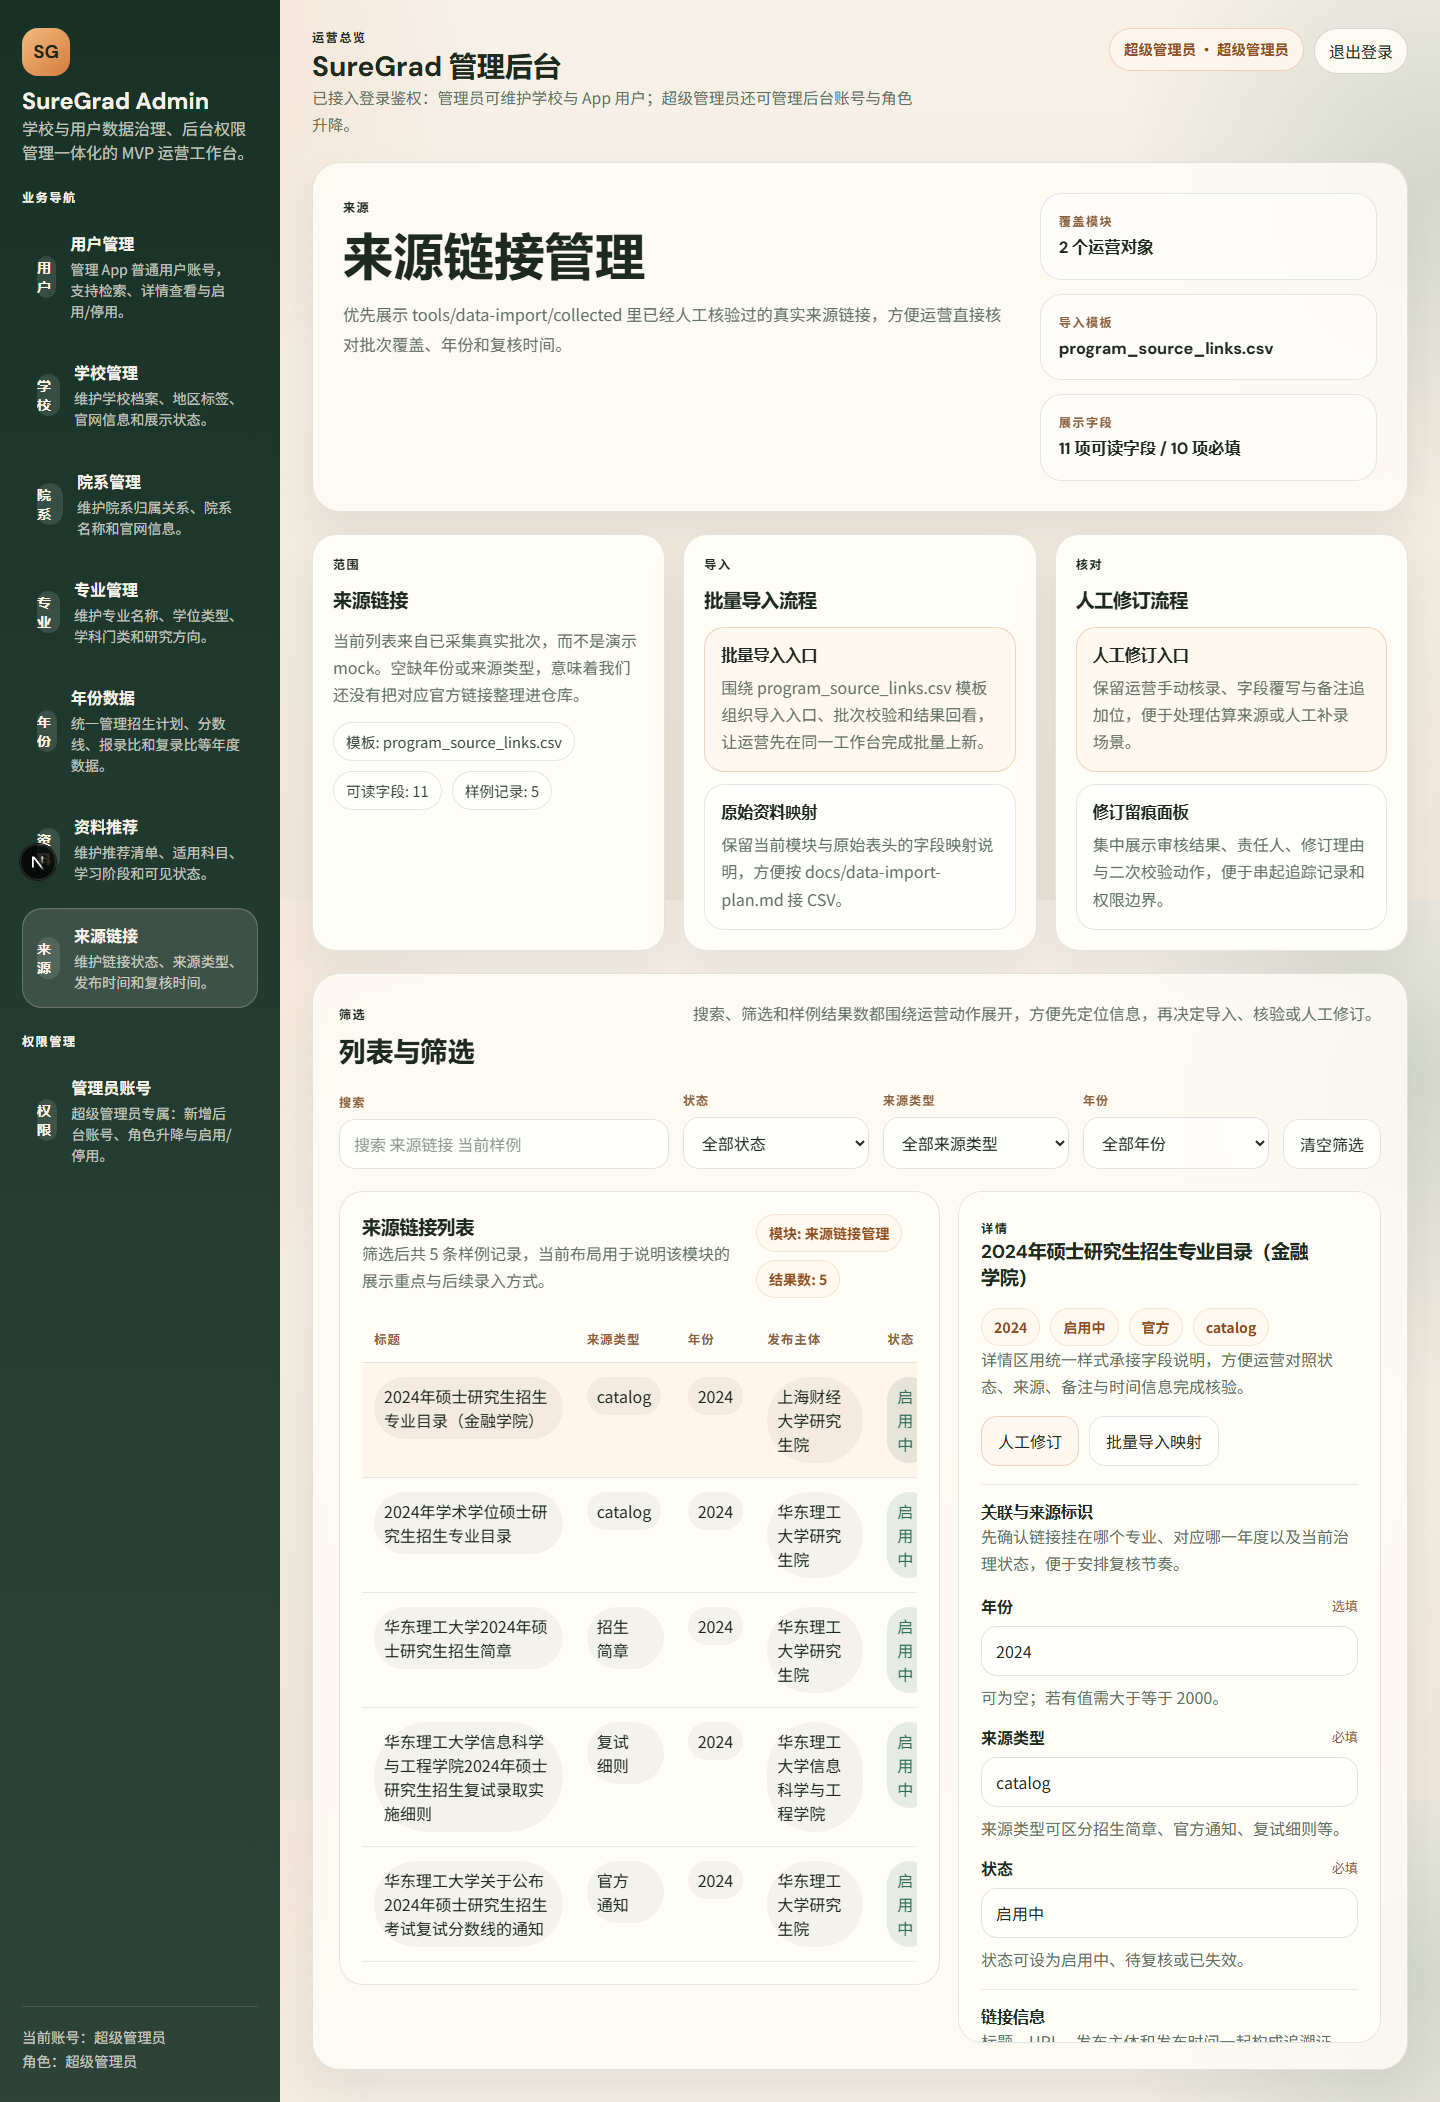
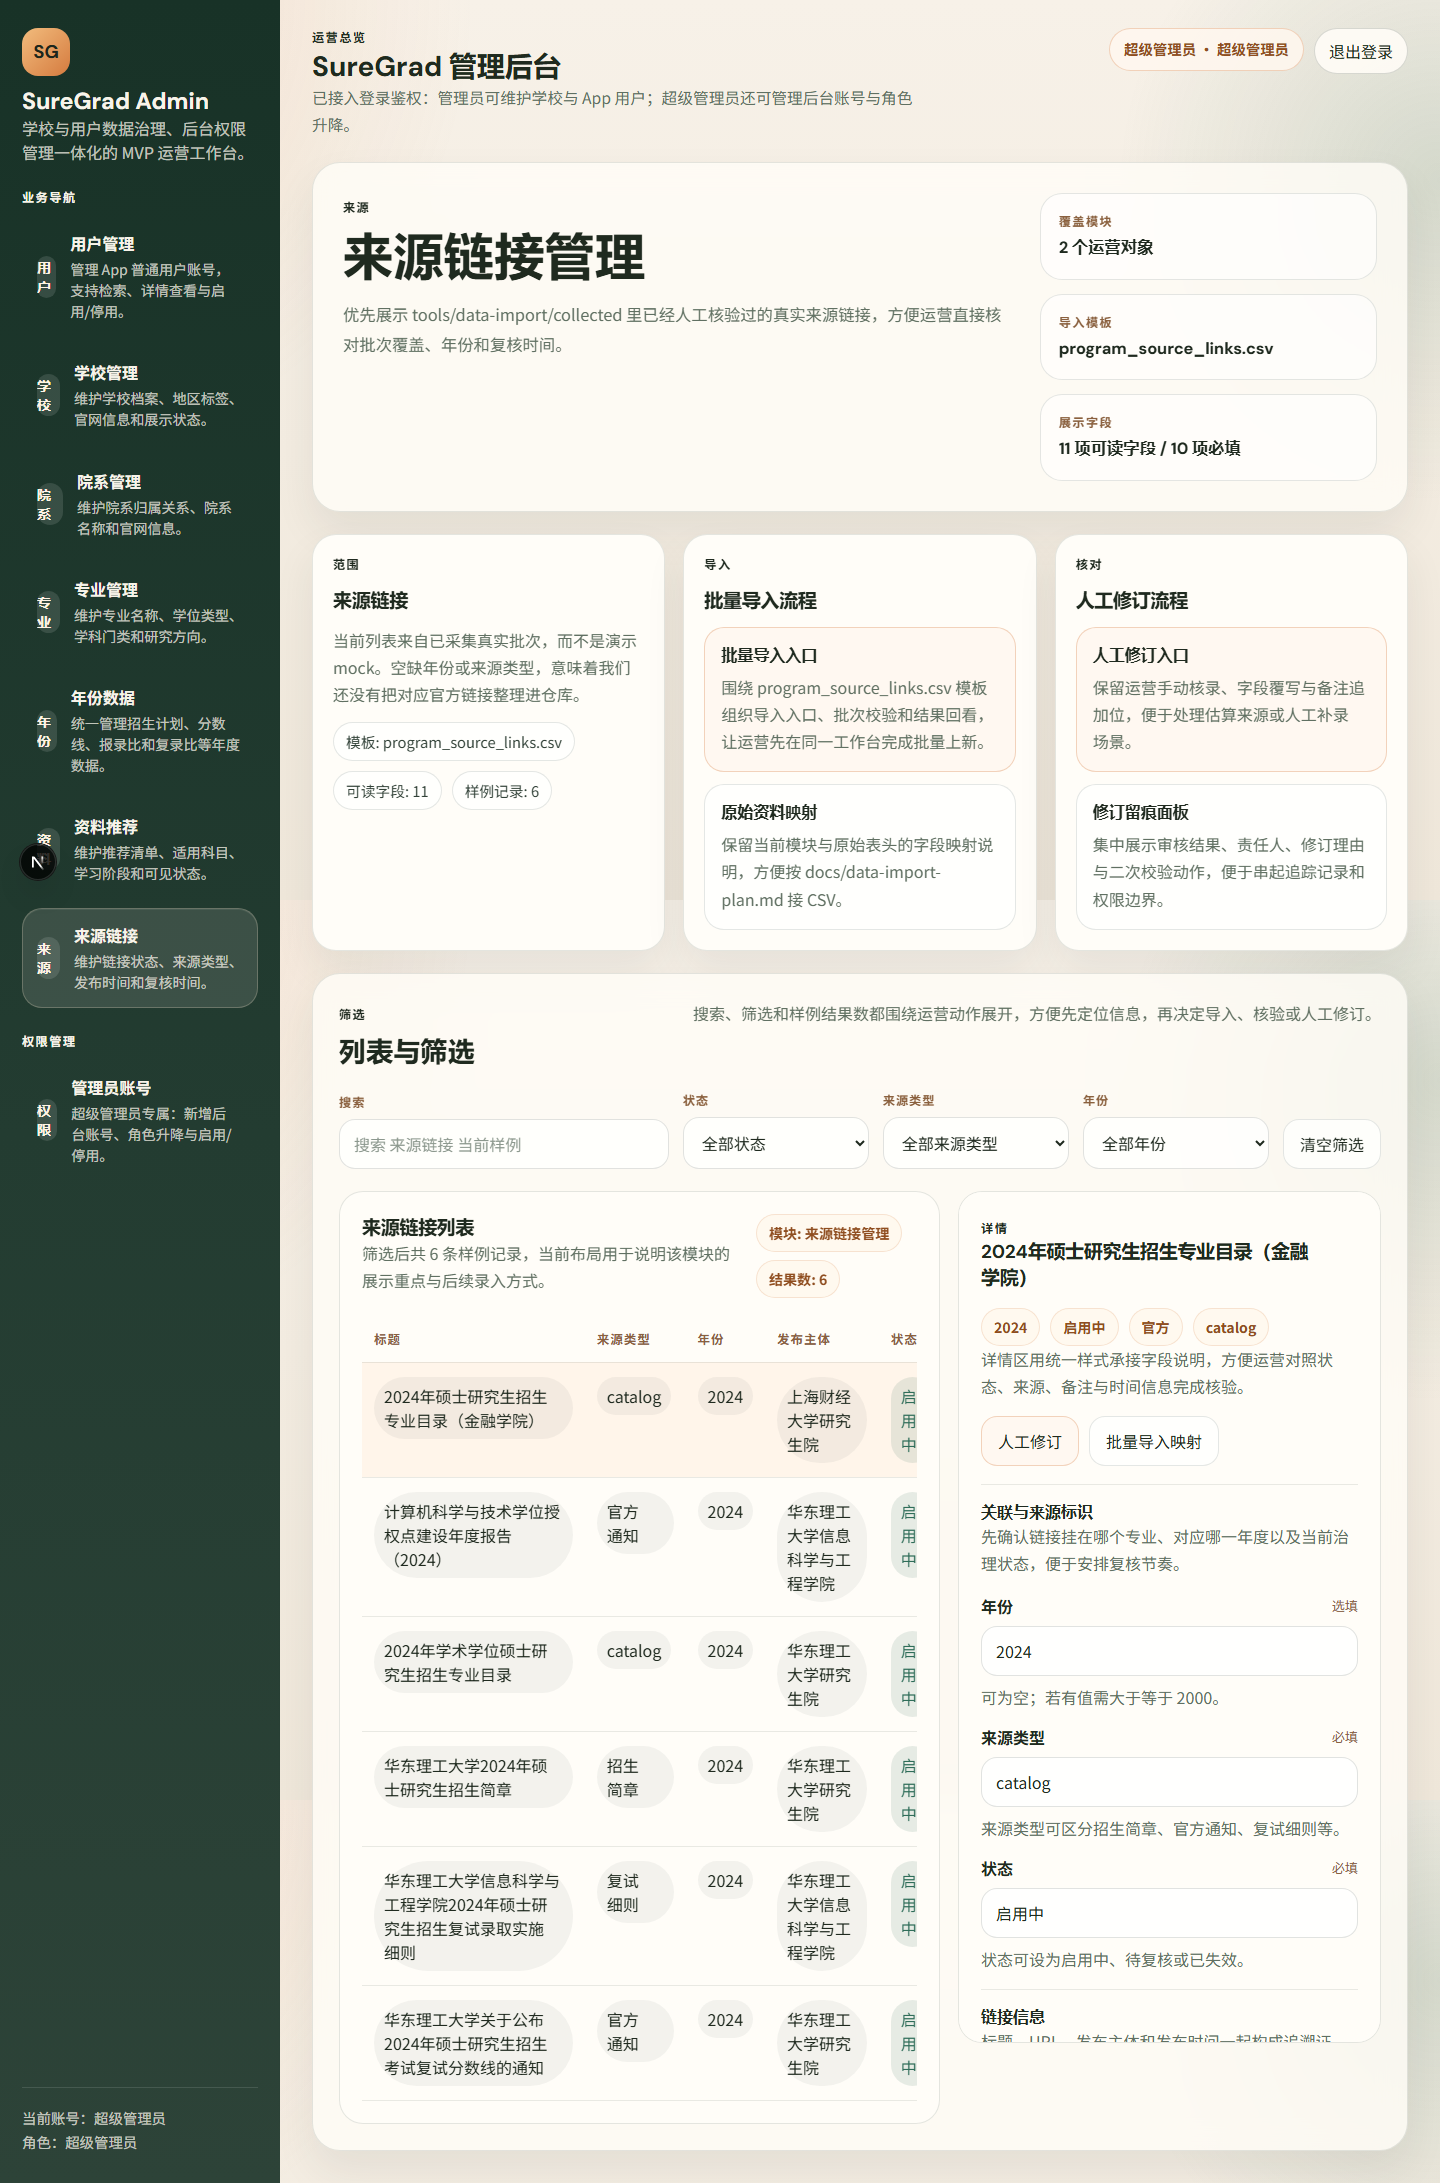
feat(data): ecust 批次补招生与复试 CSV 并扩展导入器
依据学院学位授权点年报写入招生人数，复试比按实施细则与估算口径入库；专业详情页展示真实复试比。

diff --git a/tools/data-import/import_to_db.py b/tools/data-import/import_to_db.py
@@ -22,7 +22,10 @@ IMPORT_ORDER = (
     "schools.csv",
     "departments.csv",
     "programs.csv",
+    "program_admissions.csv",
     "program_score_lines.csv",
+    "program_application_stats.csv",
+    "program_interview_stats.csv",
     "program_source_links.csv",
 )
 
@@ -444,6 +447,59 @@ def upsert_program(conn: Any, lookup: LookupTables, row: dict[str, str]) -> str:
     return program_id
 
 
+def parse_optional_int(value: str | None) -> int | None:
+    text = empty_to_none(value)
+    if text is None:
+        return None
+    return int(text)
+
+
+def parse_decimal(value: str | None) -> float:
+    text = (value or "").strip()
+    if not text:
+        raise ValueError("decimal value is required")
+    return float(text)
+
+
+def upsert_admission(conn: Any, lookup: LookupTables, row: dict[str, str]) -> None:
+    program_id = resolve_program_id(conn, lookup, row)
+    values = {
+        "program_id": program_id,
+        "exam_year": int(row["exam_year"]),
+        "planned_enrollment": int(row["planned_enrollment"]),
+        "recommended_exemption_count": int(row.get("recommended_exemption_count") or 0),
+        "unified_exam_quota": int(row.get("unified_exam_quota") or 0),
+        "actual_enrollment": parse_optional_int(row.get("actual_enrollment")),
+        "is_cross_major_allowed": parse_bool(row.get("is_cross_major_allowed")),
+        "memo": empty_to_none(row.get("memo")),
+        "source_confidence": row["source_confidence"].strip(),
+    }
+    conn.execute(
+        """
+        INSERT INTO program_admissions (
+            program_id, exam_year, planned_enrollment, recommended_exemption_count,
+            unified_exam_quota, actual_enrollment, is_cross_major_allowed, memo,
+            source_confidence
+        ) VALUES (
+            %(program_id)s, %(exam_year)s, %(planned_enrollment)s,
+            %(recommended_exemption_count)s, %(unified_exam_quota)s, %(actual_enrollment)s,
+            %(is_cross_major_allowed)s, %(memo)s, %(source_confidence)s
+        )
+        ON CONFLICT (program_id, exam_year)
+        DO UPDATE SET
+            planned_enrollment = EXCLUDED.planned_enrollment,
+            recommended_exemption_count = EXCLUDED.recommended_exemption_count,
+            unified_exam_quota = EXCLUDED.unified_exam_quota,
+            actual_enrollment = EXCLUDED.actual_enrollment,
+            is_cross_major_allowed = EXCLUDED.is_cross_major_allowed,
+            memo = EXCLUDED.memo,
+            source_confidence = EXCLUDED.source_confidence,
+            updated_at = NOW()
+        """,
+        values,
+    )
+
+
 def upsert_score_line(conn: Any, lookup: LookupTables, row: dict[str, str]) -> None:
     program_id = resolve_program_id(conn, lookup, row)
     values = {
@@ -475,6 +531,79 @@ def upsert_score_line(conn: Any, lookup: LookupTables, row: dict[str, str]) -> N
             english_score = EXCLUDED.english_score,
             subject_one_score = EXCLUDED.subject_one_score,
             subject_two_score = EXCLUDED.subject_two_score,
+            notes = EXCLUDED.notes,
+            source_confidence = EXCLUDED.source_confidence,
+            updated_at = NOW()
+        """,
+        values,
+    )
+
+
+def upsert_application_stat(conn: Any, lookup: LookupTables, row: dict[str, str]) -> None:
+    program_id = resolve_program_id(conn, lookup, row)
+    values = {
+        "program_id": program_id,
+        "exam_year": int(row["exam_year"]),
+        "applicant_count": int(row["applicant_count"]),
+        "actual_exam_count": parse_optional_int(row.get("actual_exam_count")),
+        "admitted_count": int(row["admitted_count"]),
+        "application_ratio": parse_decimal(row.get("application_ratio")),
+        "notes": empty_to_none(row.get("notes")),
+        "source_confidence": row["source_confidence"].strip(),
+    }
+    conn.execute(
+        """
+        INSERT INTO program_application_stats (
+            program_id, exam_year, applicant_count, actual_exam_count, admitted_count,
+            application_ratio, notes, source_confidence
+        ) VALUES (
+            %(program_id)s, %(exam_year)s, %(applicant_count)s, %(actual_exam_count)s,
+            %(admitted_count)s, %(application_ratio)s, %(notes)s, %(source_confidence)s
+        )
+        ON CONFLICT (program_id, exam_year)
+        DO UPDATE SET
+            applicant_count = EXCLUDED.applicant_count,
+            actual_exam_count = EXCLUDED.actual_exam_count,
+            admitted_count = EXCLUDED.admitted_count,
+            application_ratio = EXCLUDED.application_ratio,
+            notes = EXCLUDED.notes,
+            source_confidence = EXCLUDED.source_confidence,
+            updated_at = NOW()
+        """,
+        values,
+    )
+
+
+def upsert_interview_stat(conn: Any, lookup: LookupTables, row: dict[str, str]) -> None:
+    program_id = resolve_program_id(conn, lookup, row)
+    values = {
+        "program_id": program_id,
+        "exam_year": int(row["exam_year"]),
+        "retest_candidate_count": int(row["retest_candidate_count"]),
+        "final_admitted_count": int(row["final_admitted_count"]),
+        "interview_ratio": parse_decimal(row.get("interview_ratio")),
+        "retest_weight": parse_decimal(row.get("retest_weight")),
+        "initial_exam_weight": parse_decimal(row.get("initial_exam_weight")),
+        "notes": empty_to_none(row.get("notes")),
+        "source_confidence": row["source_confidence"].strip(),
+    }
+    conn.execute(
+        """
+        INSERT INTO program_interview_stats (
+            program_id, exam_year, retest_candidate_count, final_admitted_count,
+            interview_ratio, retest_weight, initial_exam_weight, notes, source_confidence
+        ) VALUES (
+            %(program_id)s, %(exam_year)s, %(retest_candidate_count)s, %(final_admitted_count)s,
+            %(interview_ratio)s, %(retest_weight)s, %(initial_exam_weight)s, %(notes)s,
+            %(source_confidence)s
+        )
+        ON CONFLICT (program_id, exam_year)
+        DO UPDATE SET
+            retest_candidate_count = EXCLUDED.retest_candidate_count,
+            final_admitted_count = EXCLUDED.final_admitted_count,
+            interview_ratio = EXCLUDED.interview_ratio,
+            retest_weight = EXCLUDED.retest_weight,
+            initial_exam_weight = EXCLUDED.initial_exam_weight,
             notes = EXCLUDED.notes,
             source_confidence = EXCLUDED.source_confidence,
             updated_at = NOW()
@@ -569,8 +698,17 @@ IMPORT_HANDLERS = {
     "programs.csv": lambda conn, lookup, rows: [
         upsert_program(conn, lookup, row) for row in rows
     ],
+    "program_admissions.csv": lambda conn, lookup, rows: [
+        upsert_admission(conn, lookup, row) for row in rows
+    ],
     "program_score_lines.csv": lambda conn, lookup, rows: [
         upsert_score_line(conn, lookup, row) for row in rows
+    ],
+    "program_application_stats.csv": lambda conn, lookup, rows: [
+        upsert_application_stat(conn, lookup, row) for row in rows
+    ],
+    "program_interview_stats.csv": lambda conn, lookup, rows: [
+        upsert_interview_stat(conn, lookup, row) for row in rows
     ],
     "program_source_links.csv": lambda conn, lookup, rows: [
         upsert_source_link(conn, lookup, row) for row in rows

diff --git a/docs/start-here.md b/docs/start-here.md
@@ -109,7 +109,9 @@
 2. `departments.csv`
 3. `programs.csv`
 4. `program_score_lines.csv`
-5. `program_source_links.csv`
+5. `program_admissions.csv`
+6. `program_interview_stats.csv`
+7. `program_source_links.csv`
 
 覆盖对象：
 
@@ -122,7 +124,7 @@
 1. 已附带批次级 `README.md`，说明官方来源和人工判断。
 2. 已优先保证真源和来源追溯，而不是先把所有字段补满。
 3. 现在可以直接通过 `tools/data-import/run_import.ps1` 产出批次级 `import-report.json` 和 `import-report.md`。
-4. 当前真实批次还没有覆盖 `program_admissions`、`program_application_stats`、`program_interview_stats`、`program_exam_subjects`、`program_reference_books`、`subjects`、`books` 等模板。
+4. 当前真实批次已覆盖 `program_admissions`、`program_interview_stats`；仍缺 `program_application_stats`、`program_exam_subjects`、`program_reference_books`、`subjects`、`books` 等模板。
 
 **入库（2026-05-22）**：ecust 五表可通过 `pnpm db:seed:ecust` 写入 PostgreSQL（`db:migrate` + `db:import:ecust`）。全新库先执行 `docs/schema.sql`；旧库缺列时 migrate 会补齐。本机验证：`GET /api/v1/schools` 应返回华东理工大学及 2024 分数线摘要。
 
@@ -201,7 +203,7 @@
 
 ### 11.3 移动端 / 视觉验收优先项
 
-1. 专业详情页已落地；**资料详情页**已落地（2026-05-23）。下一步优先补齐 ecust 报录比/复试 CSV，减少详情与对比中的「待补充」。
+1. 专业详情页已落地；**资料详情页**已落地（2026-05-23）。ecust 批次已补招生/复试 CSV（2026-05-23）。下一步优先补齐报录比 CSV 或初试科目模板，减少详情与对比中的「待补充」。
 2. 任何涉及 Flutter 页面结构或交互的改动，除 `flutter analyze` / `flutter test` 外，应跑 `pnpm verify:visual` 并写 `docs/visual-qa/` 记录。
 
 ### 11.4 数据采集优先项

diff --git a/tools/data-import/collected/ecust-cs-2024/README.md b/tools/data-import/collected/ecust-cs-2024/README.md
@@ -8,7 +8,9 @@
 2. 院系 `departments.csv`
 3. 专业 `programs.csv`
 4. 分数线 `program_score_lines.csv`
-5. 来源链接 `program_source_links.csv`
+5. 招生人数 `program_admissions.csv`
+6. 复试比 `program_interview_stats.csv`
+7. 来源链接 `program_source_links.csv`
 
 ## 官方来源
 
@@ -18,6 +20,7 @@
 4. `华东理工大学2024年硕士研究生招生简章`
 5. `华东理工大学信息科学与工程学院2024年硕士研究生招生复试录取实施细则`
 6. `华东理工大学关于公布2024年硕士研究生招生考试复试分数线的通知`
+7.  `计算机科学与技术学位授权点建设年度报告（2024）`
 
 ## 人工说明
 
@@ -25,4 +28,6 @@
 2. `discipline_category=工学` 依据专业代码 `081200` 对应学科门类整理。
 3. `exam_math_required=true` 依据该专业目录中的统考科目含数学科目整理。
 4. `tuition_per_year=8000.00` 依据 2024 招生简章中的全日制学术学位硕士学费标准整理。
-5. 本批次未填写招生计划、报录比、复录比、考试科目和参考书，是因为当前采集轮次优先确保“不猜数字、先保真源”。
+5. `program_admissions.csv` 中计划/实际招生与推免、统考人数来自学院学位授权点建设年度报告（2024）表 5-1/5-2，口径为 `official`。
+6. `program_interview_stats.csv` 中最终录取 18 人取自年报普通招考人数；复试人数与复试比为 `estimated`，复试权重 50/50 依据学院复试录取实施细则。
+7. 本批次仍未填写报录比、考试科目和参考书，是因为官方未披露完整报考人数或尚未完成对应模板采集。

diff --git a/docs/visual-qa/2026-05-23-ecust-admissions-round.md b/docs/visual-qa/2026-05-23-ecust-admissions-round.md
@@ -1,0 +1,34 @@
+# 视觉验收记录 — 2026-05-23 ecust 招生/复试数据
+
+验收人：自动化脚本 + 主线程审图（Playwright / Flutter Web）
+
+## 结论
+
+| 范围 | 结果 | 证据 |
+|------|------|------|
+| Mobile 专业详情（招生/复试字段） | **通过** | `docs/.visual-qa/mobile-program-detail.png` |
+| Admin 既有页面回归 | **通过** | `docs/.visual-qa/admin-*.png` |
+| Mobile 其他 Tab 回归 | **通过** | `docs/.visual-qa/mobile-*.png` |
+
+专业详情页关键指标区已展示 2024 复试比 `1.22:1`；报录比仍为「待补充」（官方未披露报考人数）。招生信息区块通过 `program_admissions.csv` 入库后可展示计划 34 / 实际 39 等字段。
+
+## 数据变更
+
+- 新增 `program_admissions.csv`、`program_interview_stats.csv`（ecust 批次）
+- `import_to_db.py` 支持上述模板入库
+- 重新执行 `pnpm db:seed:ecust` 后 API `GET /programs/{id}` 返回 admissions/interviewStats
+
+## 复现命令
+
+```bash
+pnpm db:seed:ecust
+pnpm dev:api
+pnpm dev:admin
+pnpm verify:visual
+```
+
+## 工程校验
+
+- `pnpm verify:api` — 通过
+- `pnpm verify:admin` — 通过
+- `pnpm verify:mobile` — 通过

diff --git a/tools/data-import/README.md b/tools/data-import/README.md
@@ -43,7 +43,7 @@
 
 1. 已附带批次级 `README.md`，记录官方来源与人工假设。
 2. 这一轮优先保证真源、来源追溯和模板链路跑通，不先猜测缺失数字。
-3. 当前仍缺少 `program_admissions`、`program_application_stats`、`program_interview_stats`、`program_exam_subjects`、`program_reference_books`、`subjects`、`books` 等模板内容。
+3. ecust 批次已包含 `program_admissions`、`program_interview_stats`；仍缺 `program_application_stats`、`program_exam_subjects`、`program_reference_books`、`subjects`、`books` 等模板内容。
 
 因此，当前数据导入线并不是“还没开始采”，而是已经进入“继续扩批次、补模板、接入后台与后端”的阶段。
 
